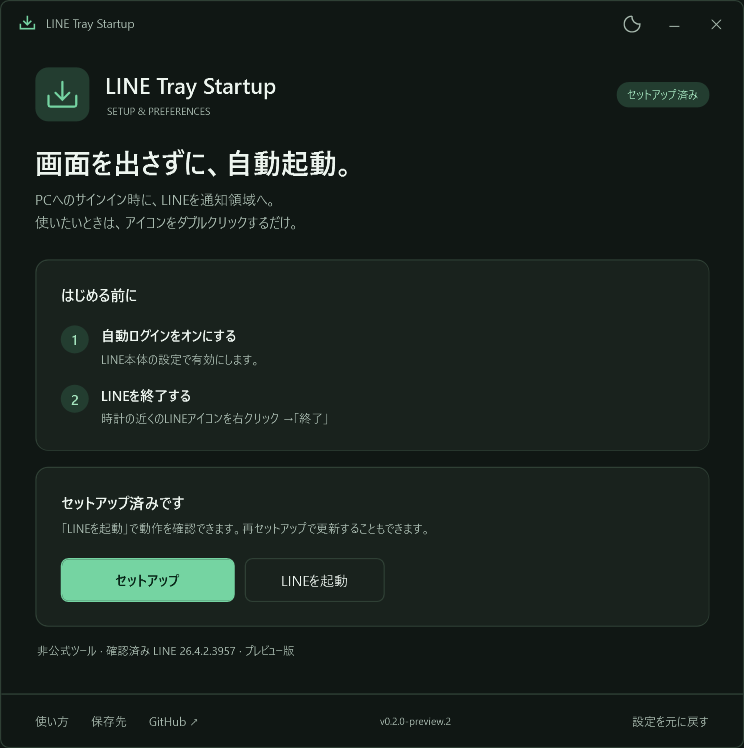
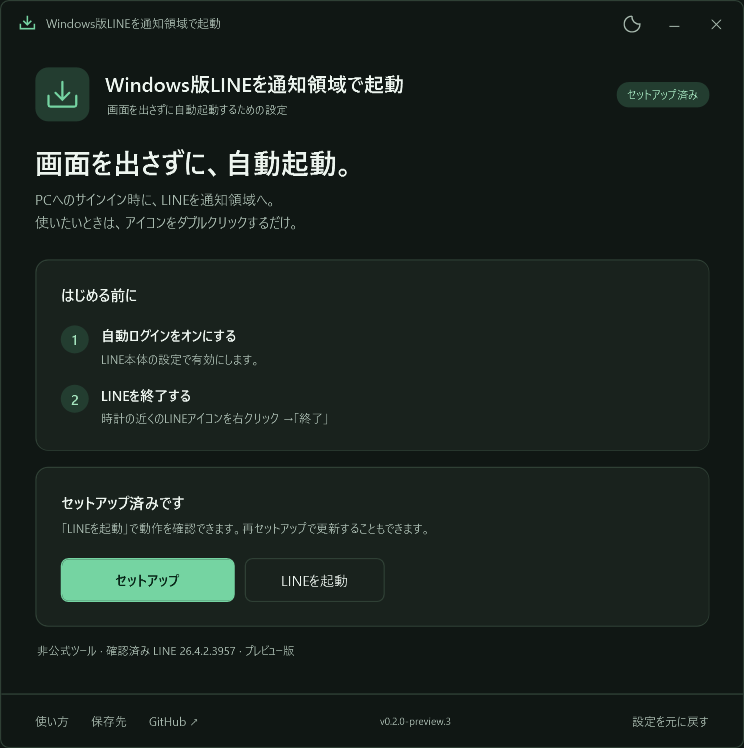
Rename app for clarity and document AI models used

Changed region(s): [[0.1237, 0.0922, 0.5565, 0.1537], [0.0618, 0.0, 0.2782, 0.0615]]

diff --git a/setup/SetupWindow.xaml b/setup/SetupWindow.xaml
@@ -77,7 +77,7 @@
       <Grid.ColumnDefinitions><ColumnDefinition/><ColumnDefinition Width="Auto"/><ColumnDefinition Width="Auto"/><ColumnDefinition Width="Auto"/></Grid.ColumnDefinitions>
       <StackPanel Orientation="Horizontal" VerticalAlignment="Center">
         <Path Data="M1,9 L1,14 L15,14 L15,9 M8,1 L8,10 M4,6 L8,10 L12,6" Stroke="{DynamicResource AccentBrush}" StrokeThickness="1.6" Width="17" Height="17" Margin="0,0,10,0"/>
-        <TextBlock Text="LINE Tray Startup" Foreground="{DynamicResource MutedBrush}" FontSize="12" VerticalAlignment="Center"/>
+        <TextBlock Text="Windows版LINEを通知領域で起動" Foreground="{DynamicResource MutedBrush}" FontSize="12" VerticalAlignment="Center"/>
       </StackPanel>
       <Button x:Name="ThemeButton" Grid.Column="1" Style="{StaticResource Caption}" ToolTip="ライト／ダークを切り替え" AutomationProperties.Name="テーマを切り替え">
         <Path Data="M10,1 A9,9 0 1 0 19,10 A8,8 0 0 1 10,1" Stroke="{Binding Foreground, RelativeSource={RelativeSource AncestorType=Button}}" StrokeThickness="1.4" Width="17" Height="17" Stretch="Uniform"/>
@@ -93,8 +93,8 @@
             <Path Data="M2,16 L2,25 Q2,27 4,27 L28,27 Q30,27 30,25 L30,16 M16,2 L16,20 M9,13 L16,20 L23,13" Stroke="{DynamicResource AccentBrush}" StrokeThickness="2.2" StrokeStartLineCap="Round" StrokeEndLineCap="Round" Width="30" Height="29" Stretch="Uniform"/>
           </Border>
           <StackPanel Grid.Column="1" VerticalAlignment="Center">
-            <TextBlock Text="LINE Tray Startup" FontSize="22" FontWeight="SemiBold"/>
-            <TextBlock Text="SETUP &amp; PREFERENCES" FontSize="10" Foreground="{DynamicResource MutedBrush}" Margin="1,5,0,0"/>
+            <TextBlock Text="Windows版LINEを通知領域で起動" FontSize="20" FontWeight="SemiBold" TextWrapping="Wrap"/>
+            <TextBlock Text="画面を出さずに自動起動するための設定" FontSize="11" Foreground="{DynamicResource MutedBrush}" Margin="1,5,0,0"/>
           </StackPanel>
           <Border Grid.Column="2" Background="{DynamicResource SoftBrush}" CornerRadius="12" Padding="11,5" VerticalAlignment="Center">
             <TextBlock x:Name="StatusBadge" Text="未セットアップ" FontSize="11" Foreground="{DynamicResource SoftTextBrush}"/>

diff --git a/setup/Setup.cs b/setup/Setup.cs
@@ -7,15 +7,15 @@ using System.Text;
 using System.Threading.Tasks;
 using System.Windows;
 
-[assembly: AssemblyTitle("LINE Tray Startup Setup")]
-[assembly: AssemblyVersion("0.2.0.1")]
-[assembly: AssemblyFileVersion("0.2.0.1")]
+[assembly: AssemblyTitle("Windows版LINEを通知領域で起動 Setup")]
+[assembly: AssemblyVersion("0.2.0.3")]
+[assembly: AssemblyFileVersion("0.2.0.3")]
 
 internal static class Program
 {
-    internal const string Version = "0.2.0-preview.2";
+    internal const string Version = "0.2.0-preview.3";
     internal static readonly string Home = Path.Combine(Environment.GetFolderPath(Environment.SpecialFolder.LocalApplicationData), "LineTrayStartup");
-    internal static readonly string Shortcut = Path.Combine(Environment.GetFolderPath(Environment.SpecialFolder.Programs), "LINE Tray Startup.lnk");
+    internal static readonly string Shortcut = Path.Combine(Environment.GetFolderPath(Environment.SpecialFolder.Programs), "Windows版LINEを通知領域で起動.lnk");
     internal static readonly string[] Payloads = { "Install.ps1", "Uninstall.ps1", "LineTrayStart.exe", "LineTrayHook32.dll", "LineTrayHook64.dll", "LICENSE.txt", "Detours-LICENSE.txt", "GUIDE.txt" };
 
     [STAThread]
@@ -83,8 +83,30 @@ internal static class Program
             Type type = shortcut.GetType();
             type.InvokeMember("TargetPath", BindingFlags.SetProperty, null, shortcut, new object[] { target });
             type.InvokeMember("WorkingDirectory", BindingFlags.SetProperty, null, shortcut, new object[] { home });
-            type.InvokeMember("Description", BindingFlags.SetProperty, null, shortcut, new object[] { "LINE Tray Startup の設定と解除" });
+            type.InvokeMember("Description", BindingFlags.SetProperty, null, shortcut, new object[] { "Windows版LINEを通知領域で起動 の設定と解除" });
             type.InvokeMember("Save", BindingFlags.InvokeMethod, null, shortcut, null);
+            RemoveLegacyShortcut(home, shortcutPath);
+        }
+        finally
+        {
+            if (shortcut != null) Marshal.ReleaseComObject(shortcut);
+            Marshal.ReleaseComObject(shell);
+        }
+    }
+
+    internal static void RemoveLegacyShortcut(string home, string shortcutPath)
+    {
+        string legacy = Path.Combine(Path.GetDirectoryName(shortcutPath), "LINE Tray Startup.lnk");
+        if (!File.Exists(legacy)) return;
+        Type shellType = Type.GetTypeFromProgID("WScript.Shell");
+        object shell = Activator.CreateInstance(shellType);
+        object shortcut = null;
+        try
+        {
+            shortcut = shellType.InvokeMember("CreateShortcut", BindingFlags.InvokeMethod, null, shell, new object[] { legacy });
+            string target = (string)shortcut.GetType().InvokeMember("TargetPath", BindingFlags.GetProperty, null, shortcut, null);
+            if (String.Equals(target, Path.Combine(home, "Setup.exe"), StringComparison.OrdinalIgnoreCase))
+                File.Delete(legacy);
         }
         finally
         {

diff --git a/setup/SetupWindow.cs b/setup/SetupWindow.cs
@@ -22,7 +22,7 @@ internal sealed class SetupWindow : Window
 
     internal SetupWindow()
     {
-        Title = "LINE Tray Startup";
+        Title = "Windows版LINEを通知領域で起動";
         Width = Math.Min(744, SystemParameters.WorkArea.Width - 24);
         Height = Math.Min(748, SystemParameters.WorkArea.Height - 24);
         MinWidth = Math.Min(680, Width); MinHeight = Math.Min(630, Height);
@@ -44,10 +44,10 @@ internal sealed class SetupWindow : Window
         Part<Button>("MinimizeButton").Click += delegate { WindowState = WindowState.Minimized; };
         Part<Button>("ThemeButton").Click += delegate { SetTheme(!dark); };
         Part<Button>("FolderButton").Click += delegate { Open(Program.Home); };
-        Part<Button>("GithubButton").Click += delegate { Open("https://github.com/hinatamaxxx/line-startup-to-tray"); };
+        Part<Button>("GithubButton").Click += delegate { Open("https://github.com/hinatamaxxx/windows-line-start-to-tray"); };
         Part<Button>("HelpButton").Click += delegate {
             string guide = Path.Combine(Program.Home, "使い方.txt");
-            Open(File.Exists(guide) ? guide : "https://github.com/hinatamaxxx/line-startup-to-tray#readme");
+            Open(File.Exists(guide) ? guide : "https://github.com/hinatamaxxx/windows-line-start-to-tray#readme");
         };
         Closing += delegate(object sender, System.ComponentModel.CancelEventArgs e) { if (busy) e.Cancel = true; };
         SourceInitialized += delegate {
@@ -135,7 +135,11 @@ internal sealed class SetupWindow : Window
                 Program.Extract(temp);
                 Program.RunScript(temp, undo ? "Uninstall.ps1" : "Install.ps1");
                 if (!undo) Program.SaveSupportFiles(temp, Program.Home, executable, Program.Shortcut);
-                else if (File.Exists(Program.Shortcut)) File.Delete(Program.Shortcut);
+                else
+                {
+                    if (File.Exists(Program.Shortcut)) File.Delete(Program.Shortcut);
+                    Program.RemoveLegacyShortcut(Program.Home, Program.Shortcut);
+                }
             });
             if (undo) SetState("設定を元に戻しました", "LINEを通常終了して起動し直すと、通常の動作に戻ります。ファイルの削除方法は「使い方」をご覧ください。");
             else SetState("セットアップが完了しました", "次回サインインから自動起動します。「LINEを起動」で、今すぐ動作を確認できます。");

diff --git a/docs/release-notes.md b/docs/release-notes.md
@@ -1,9 +1,10 @@
-## セットアップ画面をリニューアル
+## 用途が伝わるアプリ名に変更
 
-- WPFを採用し、余白と操作の優先順位を整理した画面へ変更しました。
-- Windowsのテーマに合わせたライト／ダーク表示に対応しました。右上のボタンでも切り替えられます。
-- セットアップ状態・処理中・操作結果を画面内に表示します。
-- 本ツール独自のアプリアイコンを追加しました。
+- アプリ名を「Windows版LINEを通知領域で起動」に変更しました。
+- リポジトリ名を `windows-line-start-to-tray` に変更しました。
+- セットアップ画面、スタートメニュー、配布ファイル名と案内を新しい名前に統一しました。
+- 更新時には、本ツールを指す旧名のスタートメニュー項目を新しい名前へ置き換えます。既存の自動起動設定とバックアップは引き継ぎます。
+- READMEに開発・文章校正で使用したAIモデルを記載しました。
 
 LINEの非表示起動を担当するEXEとDLLは、前版と同じものを使用しています。
 
@@ -11,7 +12,7 @@ Windowsへのサインイン時に、LINEの画面を出さずに通知領域へ
 
 ### ダウンロードするもの
 
-**Assetsの `LineTrayStartup-Setup-0.2.0-preview.2.exe` をダウンロードしてください。**
+**Assetsの `WindowsLineStartToTray-Setup-0.2.0-preview.3.exe` をダウンロードしてください。**
 `Source code (zip)` や `Source code (tar.gz)` は開発者向けです。
 
 ### セットアップ
@@ -30,4 +31,4 @@ Windows 11 Home 23H2 x64・Microsoft StoreからインストールしたLINE 26.
 
 コード署名はありません。照合用の `SHA256SUMS.txt` を添付しています（通常の利用ではダウンロード不要です）。LINE本体やログイン情報は同梱していません。
 
-[利用手順と仕組み](https://github.com/hinatamaxxx/line-startup-to-tray#readme) · [不具合の報告](https://github.com/hinatamaxxx/line-startup-to-tray/issues)
+[利用手順と仕組み](https://github.com/hinatamaxxx/windows-line-start-to-tray#readme) · [不具合の報告](https://github.com/hinatamaxxx/windows-line-start-to-tray/issues)

diff --git a/docs/development.md b/docs/development.md
@@ -12,8 +12,8 @@
 ## 配布EXEをビルドする
 
 ```powershell
-git clone --recurse-submodules https://github.com/hinatamaxxx/line-startup-to-tray.git
-cd line-startup-to-tray
+git clone --recurse-submodules https://github.com/hinatamaxxx/windows-line-start-to-tray.git
+cd windows-line-start-to-tray
 powershell.exe -NoProfile -ExecutionPolicy Bypass -File .\Build-Release.ps1
 ```
 
@@ -53,7 +53,7 @@ powershell.exe -NoProfile -ExecutionPolicy Bypass -File .\tests\Observe-LineStar
 
 ## 公開するファイル
 
-- `LineTrayStartup-Setup-<version>.exe`
+- `WindowsLineStartToTray-Setup-<version>.exe`
 - `SHA256SUMS.txt`
 
 ビルド出力、診断ログ、`startup-backup.json`、LINE本体はGitへ追加しません。新しい版では、コードのバージョン、ビルドスクリプト、READMEのダウンロードリンク、リリースノートを同じ版へ更新してください。

diff --git a/docs/architecture.md b/docs/architecture.md
@@ -2,7 +2,7 @@
 
 ## 全体像
 
-LINE Tray Startupは、LINE本体をディスク上で書き換えず、起動したプロセスのメモリに表示制御を追加する補助ツールです。
+Windows版LINEを通知領域で起動は、LINE本体をディスク上で書き換えず、起動したプロセスのメモリに表示制御を追加する補助ツールです。
 
 | ファイル | 役割 |
 | --- | --- |
